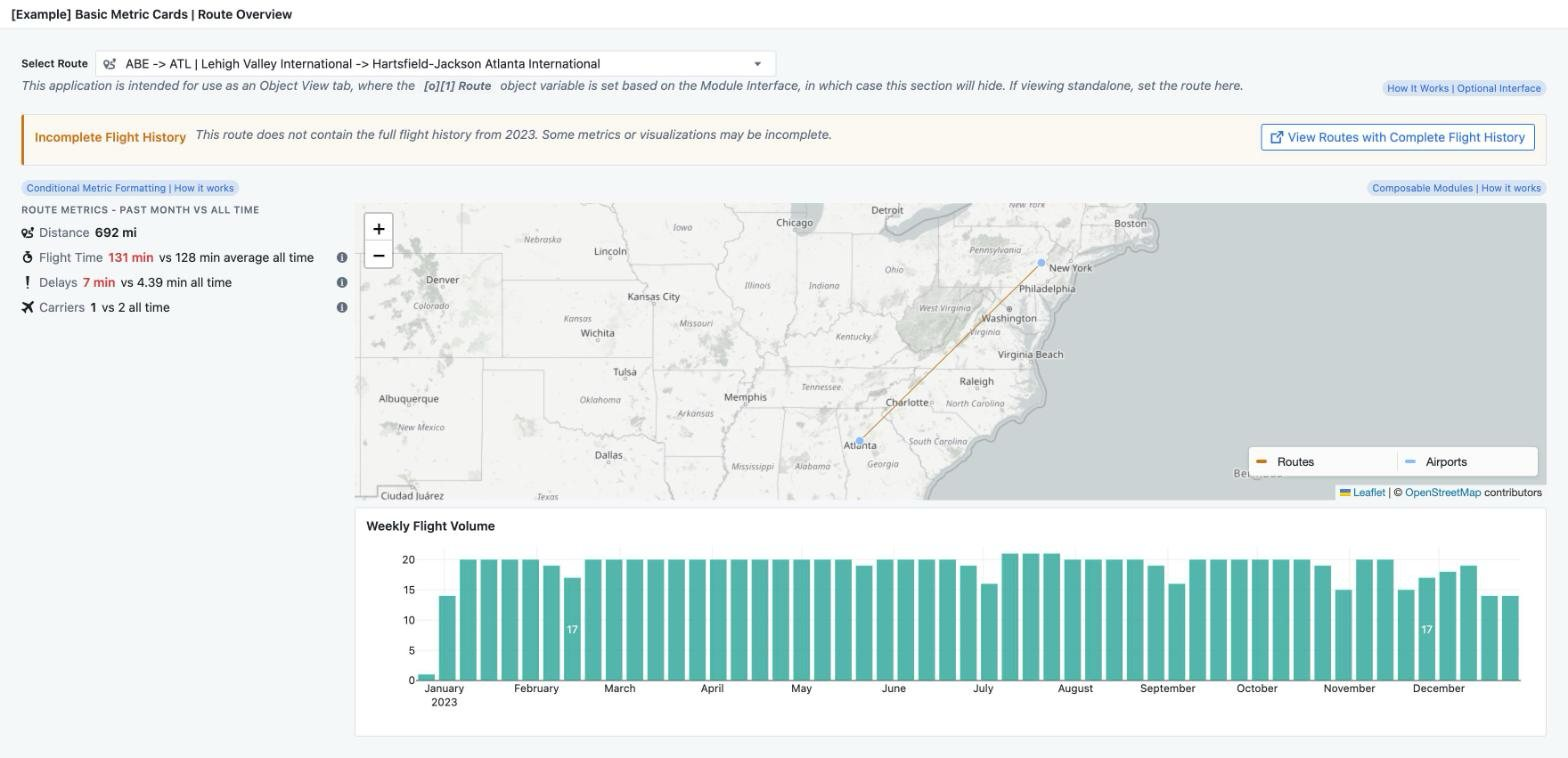
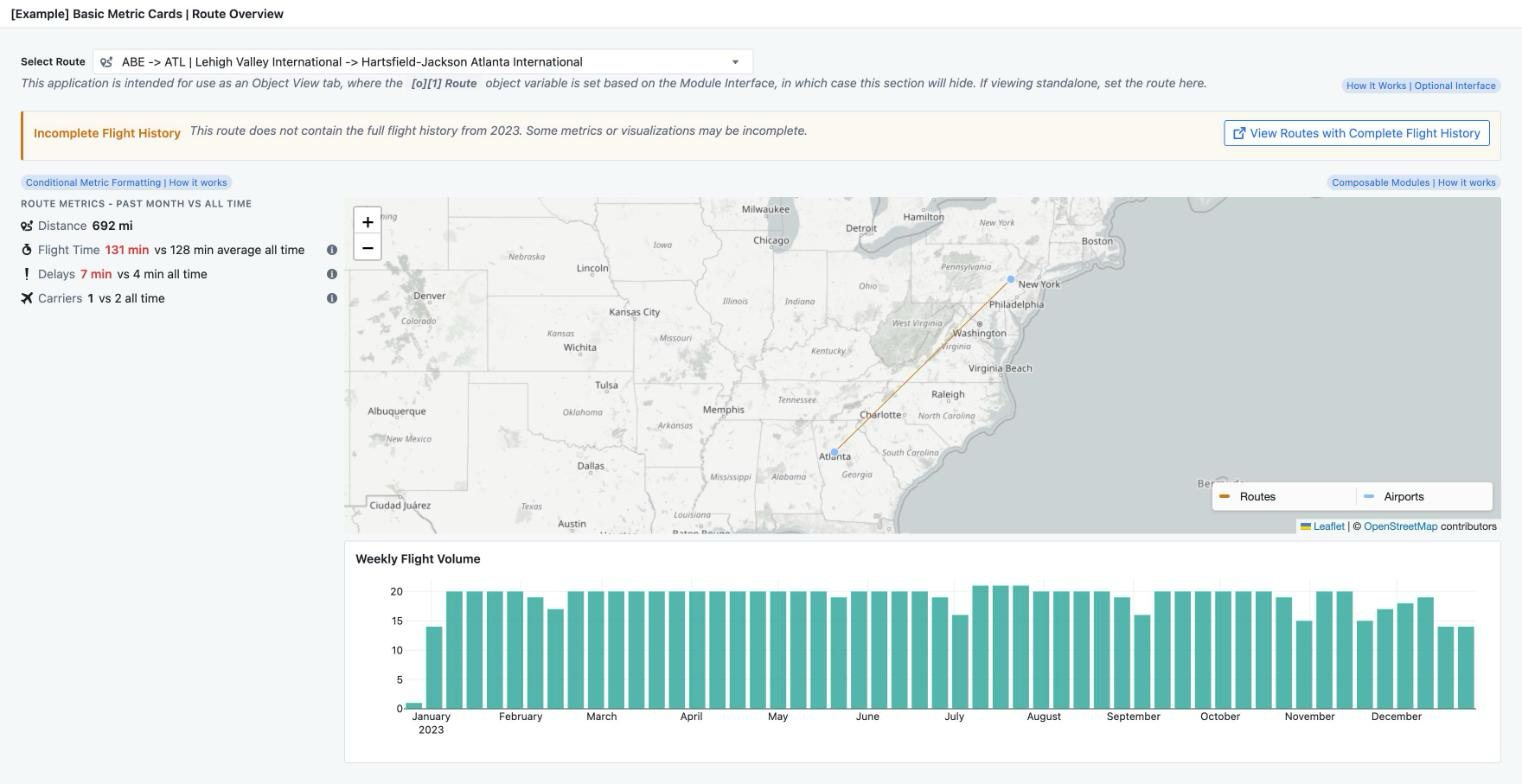
Databricks captures: MetroCycle v7 (7 tabs) and the three refreshed apps (final7)

diff --git a/index.html b/index.html
@@ -168,7 +168,7 @@ const APPS = [
     proof: "Verified · every check passed · 0 failed", notes: ["Not a standalone app: a reusable pop-up that other apps (Flights Map, Ticket, Airport) open from their “How it works” buttons, so in Foundry too it is just a titled text panel", "The rebuilt apps open this same module as their pop-up; its explainer text is editable, with edits credited to the signed-in user"] },
   { name: "Reference Foundation Landing Page", mission: "proj_Eve_WuTk2h", thread: "chat_1792460522-031cby3s", run: "1fae8ca0a5e3437988b894813249515b", dshot: "reference-landing-v14", dapp: "reference-landing-v14", short: "Reference", g: "reference-landing-v14", dproof: "Verified with open items · 7 of 10 checks passed, 0 failed · coverage 100% · the embedded Route Alert Inbox proved at its own address", f: "f-reference.jpg", dbx: "reference-landing-v14",
     proof: "Verified with open items · coverage 100% (20 of 20 widgets) · both Notepad documents and the embedded inbox match Foundry", notes: ["The Foundation Data Index and Reference Example Index Notepad documents read from Foundry, lineage diagram included", "The Example Application tab embeds the migrated Route Alert Inbox"] },
-  { name: "MetroCycle", mission: "proj_Eve_esTyJz", thread: "chat_1792488910-odk5gftj", run: "7e1c7ffd84ce42949455ce7291ad0bc3", section: "MetroCycle", short: "MetroCycle", f: "f-metrocycle--fleet.jpg", fviews: [["Home","f-metrocycle--home"],["Fleet","f-metrocycle--fleet"],["Maintenance","f-metrocycle--maintenance"],["Transport","f-metrocycle--transport"],["Employees","f-metrocycle--employees"],["Financials","f-metrocycle--financials"],["Map","f-metrocycle--map"]], dshot: "metrocycle-v6--fleet", dapp: "metrocycle-v6", dviews: [["Home","metrocycle-v6--home"],["Fleet","metrocycle-v6--fleet"],["Maintenance","metrocycle-v6--maintenance"],["Transport","metrocycle-v6--transport"],["Employees","metrocycle-v6--employees"],["Financials","metrocycle-v6--financials"],["Map","metrocycle-v6--map"]], status: "Not verified: data differences", gap: true, g: "metrocycle-v7--fleet", gviews: [["Home","metrocycle-v7--home"],["Fleet","metrocycle-v7--fleet"],["Maintenance","metrocycle-v7--maintenance"],["Transport","metrocycle-v7--transport"],["Employees","metrocycle-v7--employees"],["Financials","metrocycle-v7--financials"],["Map","metrocycle-v7--map"]], dbx: "metrocycle-v7",
+  { name: "MetroCycle", mission: "proj_Eve_esTyJz", thread: "chat_1792488910-odk5gftj", run: "7e1c7ffd84ce42949455ce7291ad0bc3", section: "MetroCycle", short: "MetroCycle", f: "f-metrocycle--fleet.jpg", fviews: [["Home","f-metrocycle--home"],["Fleet","f-metrocycle--fleet"],["Maintenance","f-metrocycle--maintenance"],["Transport","f-metrocycle--transport"],["Employees","f-metrocycle--employees"],["Financials","f-metrocycle--financials"],["Map","f-metrocycle--map"]], dshot: "metrocycle-v7--fleet", dapp: "metrocycle-v7", dviews: [["Home","metrocycle-v7--home"],["Fleet","metrocycle-v7--fleet"],["Maintenance","metrocycle-v7--maintenance"],["Transport","metrocycle-v7--transport"],["Employees","metrocycle-v7--employees"],["Financials","metrocycle-v7--financials"],["Map","metrocycle-v7--map"]], status: "Not verified: data differences", gap: true, g: "metrocycle-v7--fleet", gviews: [["Home","metrocycle-v7--home"],["Fleet","metrocycle-v7--fleet"],["Maintenance","metrocycle-v7--maintenance"],["Transport","metrocycle-v7--transport"],["Employees","metrocycle-v7--employees"],["Financials","metrocycle-v7--financials"],["Map","metrocycle-v7--map"]], dbx: "metrocycle-v7",
     dproof: "Not verified · 103 of 117 checks passed · 3 failed, all traced to the migrated data (decisions 1A/2A and 4 media references), none to the app · coverage 78% (80% needed) · save rehearsals passed",
     proof: "Rendered page matched on every sampled input · all 32 text and button checks matched · the embedded Vision Models module matched at its own address", notes: ["A bike-share operations app from a Foundry Marketplace product: seven tabs over 13,446 bikes, work orders, dispatch, timecards and finances", "Work-order and bike-move saves run as the signed-in user, written to an edits table", "The 3 failures are data, by decision: bike locations follow the data migration’s last-location rule, timecard IDs are random on every build, and 4 of 50 bike media references differ", "Not rebuilt: the Quiver ride dashboard. Its Work Order Summary asks Claude Haiku 4.5 on Databricks in place of Foundry’s AIP Logic"] },
   { name: "Vision Models", mission: "proj_Eve_zw2atx", thread: "chat_1792403268-0ohleufr", run: "9378f53d44554c929d0aba885eeae5a3", section: "MetroCycle", short: "Vision", f: "f-vision-models.jpg", status: "Matches where comparable", gap: true, dshot: "vision-models-v4", dapp: "vision-models-v4", g: "vision-models-v4", dbx: "vision-models-v4", sub: "Ask a question about a bike photo; embedded in MetroCycle",
